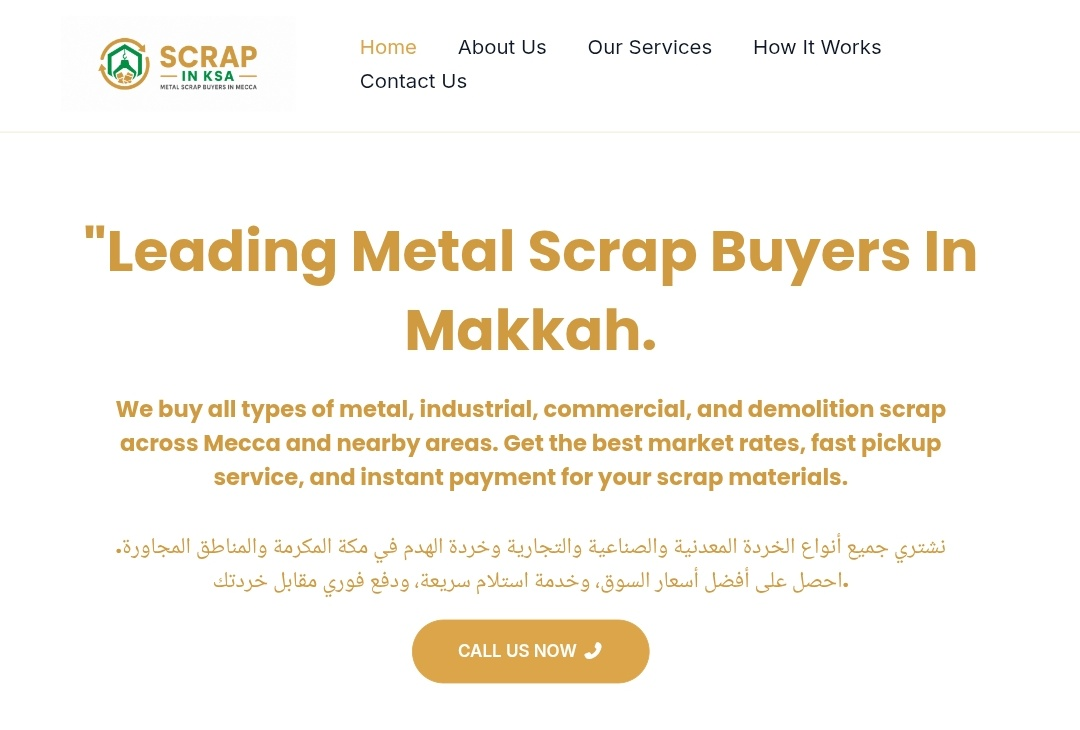
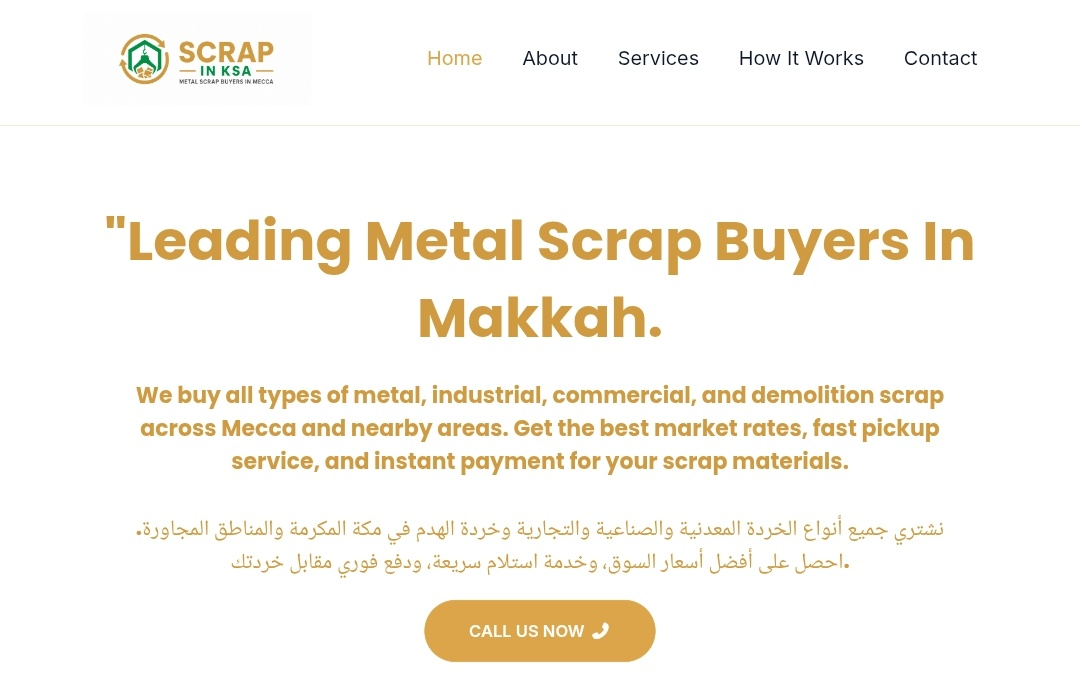
final touches

diff --git a/src/css/hero.css b/src/css/hero.css
@@ -167,15 +167,18 @@
   /* Content overlaid on top of photo — spread top to bottom */
   .hero-content {
     position: absolute;
-    inset: 0;
+    bottom: 0;
+    left: 0;
+    right: 0;
+    top: auto;
     z-index: 5;
     display: flex;
     flex-direction: column;
-    justify-content: flex-end;
-    padding: 80px 28px 28px;
+    justify-content: flex-start;
+    padding: 20px 28px 32px;
     max-width: 100%;
     pointer-events: none;
-  }
+    }
   .hero-content a,
   .hero-content button { pointer-events: all; }
 